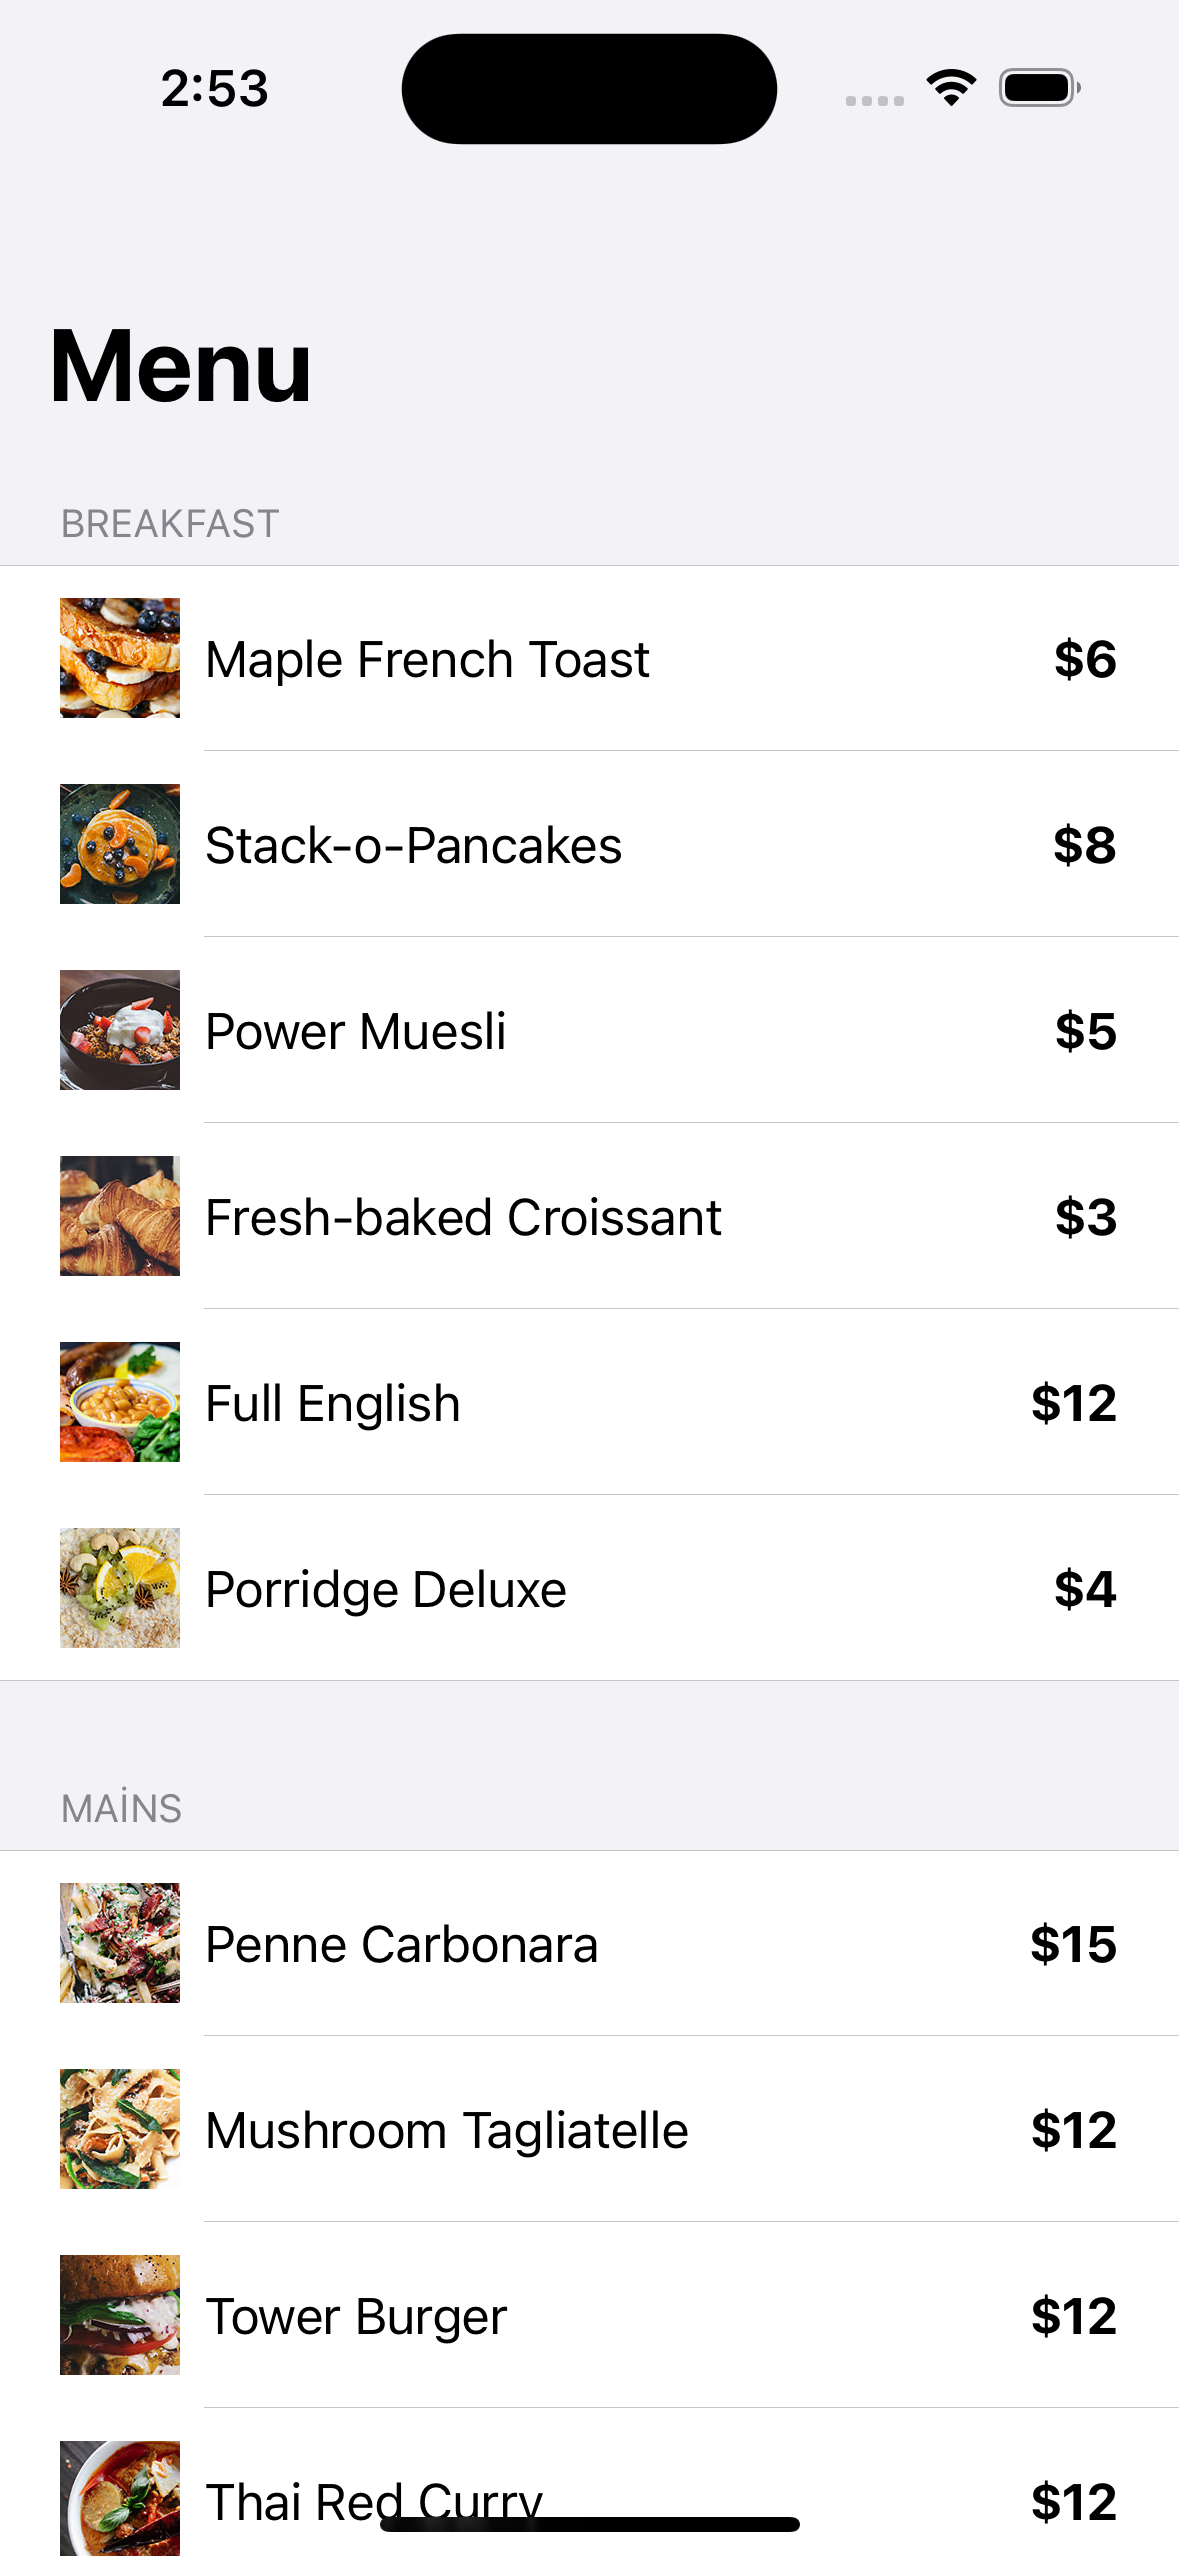
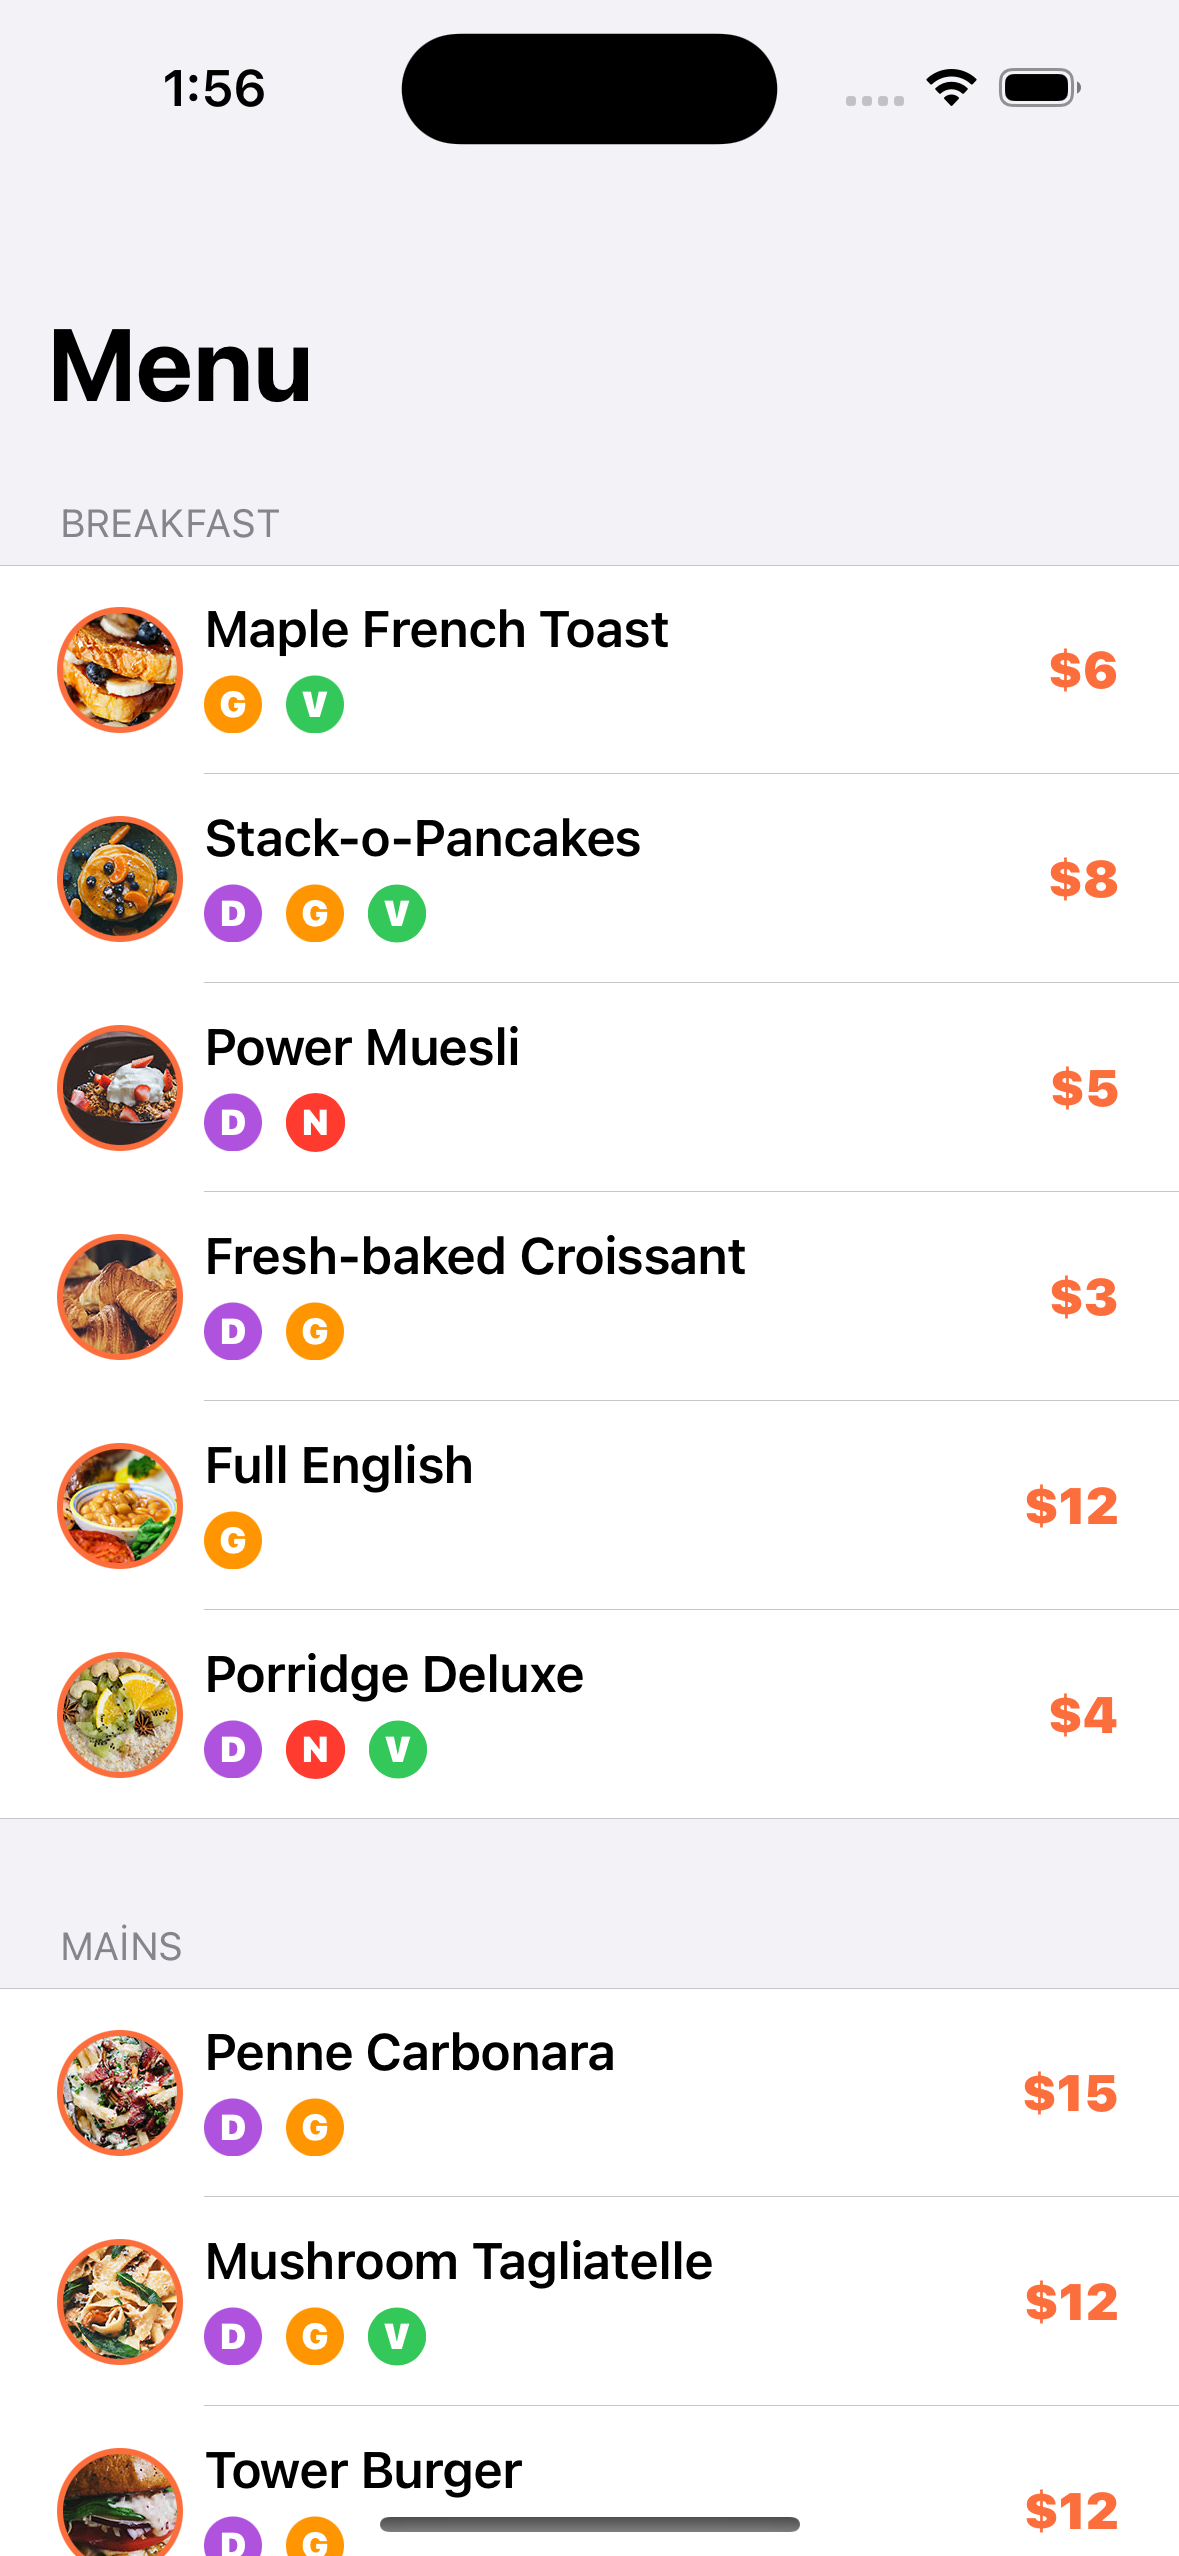
Menu UI improved. Food restrictions added.

diff --git a/28. iDine/iDine/ItemRow.swift b/28. iDine/iDine/ItemRow.swift
@@ -10,14 +10,34 @@ import SwiftUI
 struct ItemRow: View {
     let item: MenuItem
     
+    let restrictColors : [String:Color] = ["D":.purple, "G":.orange, "N":.red, "S":.blue, "V":.green]
+    
     var body: some View {
         HStack{
             HStack{
                 Image(item.thumbnailImage)
-                Text(item.name)
+                    .clipShape(Circle())
+                    .overlay(Circle().stroke(Color("priceColor"), lineWidth: 2))
+                VStack(alignment: .leading, spacing: 3){
+                    Text(item.name)
+                        .font(.headline)
+                    HStack{
+                        ForEach(item.restrictions, id: \.self){ restriction in
+                            Text(restriction)
+                                .font(.caption)
+                                .fontWeight(.black)
+                                .padding(5)
+                                .background(restrictColors[restriction, default: .black])
+                                .clipShape(Circle())
+                                .foregroundColor(.white)
+                        }
+                    }
+                }
             }
             Spacer()
-            Text("$\(item.price)").fontWeight(.bold)
+            Text("$\(item.price)")
+                .fontWeight(.black)
+                .foregroundColor(Color("priceColor"))
         }
     }
 }
